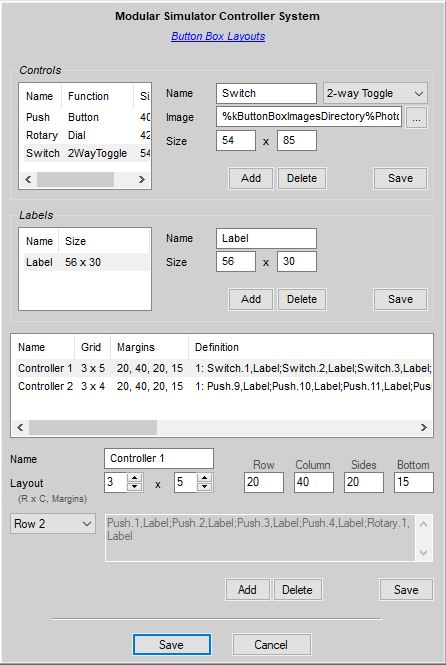
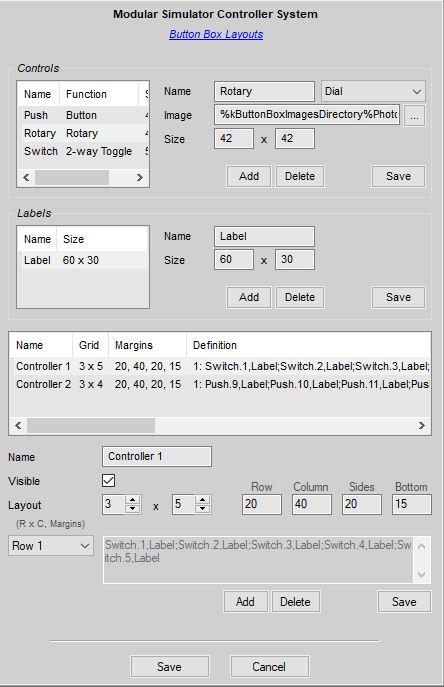
Documentation Update

diff --git a/Docs/Installation & Configuration.md b/Docs/Installation & Configuration.md
@@ -257,7 +257,7 @@ Although you may call any globally defined function, you should use only the fol
 
 #### Trigger Detector Tool
 
-This little tool will help you identifying the button numbers of your hardware controller. If you push the "Trigger..." button, a flying tool tip will apear next to your mouse cursor, which provide some information about your connected controller devices and the buttons or other triggers, that are currently beeing pushed there. To disable the tool tip, press the "Trigger..." button again.
+This little tool will help you identifying the button numbers of your hardware controller. If you push the "Trigger..." button, a flying tool tip will apear next to your mouse cursor, which provide some information about your connected controller devices and the buttons or other triggers, that are currently beeing pushed there. To disable the tool tip, press the "Trigger..." button again or use the "ESC" key.
 
 ### Tab *Launchpad*
 
@@ -349,7 +349,7 @@ In the given configuration file, you first have to define the different *Control
 
 You may define different *Label* types, if you are using label fields of different sizes for your controls. The example above only introduces one label with a fixed size for all controls.
 
-In the last section, the layouts of one or more Button Boxes are described using these components. For each Button Box you have to define the layout grid with *.Layout*" descriptor. The grid argument ("R x C", where "R" define the number of rows and "C" the number of columns) is required, the other optional parts as in "Controller 2.Layout=3 x 4, 20, 60, 20, 15" are the *Row Margin*, *Column Margin*, *Sides Margin* and *Bottom Margin* with 20, 40, 20 and 15 as default. After defining the layout, you enumerate the controls of each row seperately. It is possible to leave positions in the grid blank, when not every corresponding position on your Button Box is occupied with a control, and it is also possible to create a control without a label field. The number of each control (as in "Push.17" must correspond with the number of the corresponding controller function defined on the [*Controller* tab](https://github.com/SeriousOldMan/Simulator-Controller/wiki/Installation-&-Configuration#tab-controller).
+In the last section, the layouts of one or more Button Boxes are described using these components. For each Button Box you have to define the layout grid with *.Layout*" descriptor. The grid argument ("R x C", where "R" define the number of rows and "C" the number of columns) is required, the other optional parts as in "Controller 2.Layout=3 x 4, 20, 60, 20, 15" are the *Row Margin*, *Column Margin*, *Sides Margin* and *Bottom Margin* with 20, 40, 20 and 15 as default. After defining the layout, you enumerate the controls of each row seperately. It is possible to leave positions in the grid blank, when not every corresponding position on your Button Box is occupied with a control, and it is also possible to create a control without a label field. The number of each control (as in "Push.17" must correspond with the number of the corresponding controller function defined on the [*Controller* tab](https://github.com/SeriousOldMan/Simulator-Controller/wiki/Installation-&-Configuration#tab-controller). Last, but not least: You can declare a Button Box to be invisible, so that its graphical representation will not be shown on the screen.
 
 After we now have an understanding of the Button Box layout definition format, let's have a look at the graphical editor, which handles this configuration file. As always, the file will be stored in the *Simulator Controller\Config* folder which resides in your user *Documents* folder.
 

diff --git a/Docs/Plugins & Modes.md b/Docs/Plugins & Modes.md
@@ -28,16 +28,21 @@ The "System" plugin creates the controller mode "Launch", which serves as a laun
 
 ![](https://github.com/SeriousOldMan/Simulator-Controller/blob/main/Docs/Images/Button%20Box%201.JPG)
 
+As an alternative, you can use the *launchApplications* parameter to specify the applications for the "Launch" mode:
+
+	launchApplications: ACC "Assetto Corsa Competizione" Button.1, FanaLab Fanalab Button.2, TS TeamSpeak Button.3
+
 ### Configuration
 
 The "System" plugin accepts one configuration argument in the [Plugins tab](https://github.com/SeriousOldMan/Simulator-Controller/wiki/Installation-&-Configuration#tab-plugins) of the configuration tool, which you almost always will provide:
 
 	modeSelector: *modeSelectorFunction1* *modeSelectorFunction2* ...;
+	launschApplications: *label* *application* *launchFunction1*, ...;
 	shutdown: *shutdownFunction*
 	
 The *modeSelector* parameter allows you to define controller functions that switch between modes on your Button Boxes. The *modeSelectorFunctionX* must be in the descriptor format, i.e. *"functionType*.*number*". You can use binary functions, such as 2-way toggle switches or dials, to switch forward and backward between modes, but a simple push button can also be used. Example: "modeSelector: 2WayToggle.1". If you have multiple Button Boxes, you may want to create a mode selector for each one, especially, if you have defined modes, whose actions are exclusive for one of those Button Boxes. Doing this, you can have mutiple modes active on the same time on your Button Boxes and you can switch between those modes on each of those Button Boxes separately. An example: You may bind all action for controlling the ["Motion" mode](https://github.com/SeriousOldMan/Simulator-Controller/wiki/Plugins-&-Modes#mode-motion) to one Button Box and all actions for the ["Pitstop" mode](https://github.com/SeriousOldMan/Simulator-Controller/wiki/Plugins-&-Modes#mode-pitstop-1) to a different Button Box. In this configuration, both modes can be active at the same time.
 
-With the *shutdown* parameter, a unary function can be supplied to shutdown the complete simulator system. This function will be available in the "Launch" mode.
+The parameter *launchApplications* allows you to specify a list of applications that you want to start and stop from your Button Box. *label* will be used as the display name and *application* must reference the application as defined in the [applications tab](https://github.com/SeriousOldMan/Simulator-Controller/wiki/Installation-&-Configuration#tab-applications). With the *shutdown* parameter, a unary function can be supplied to shutdown the complete simulator system. This function will be available in the "Launch" mode.
 
 ## Plugin *Tactile Feedback*
 

diff --git a/Docs/Updates.md b/Docs/Updates.md
@@ -47,7 +47,9 @@ Note: Some of you might want to have more control. No problem. All the files in 
 
 ## Release 3.5.0
 
-The biggest change in this release is the introduction of the all-new [Setup Wizard](*). In the course of implementing this very challenging tool, the labels for the visual representation of the Button Boxes were extensively revised. Therefore the [plugin label files](https://github.com/SeriousOldMan/Simulator-Controller/blob/main/Resources/Templates/Controller%20Plugin%20Labels.de) will be completely overwritten in this release. If you have edited your local files in the *Simulator Controller\Translations* folder in your *Documents* folder and introduced your own label identifiers, make backup copies before the update and then re-integrate your changes.
+The biggest change in this release is the introduction of the all-new [Setup Wizard](*). In the course of implementing this very challenging tool, the labels for the visual representation of the Button Boxes were extensively revised. Therefore the [plugin label files](https://github.com/SeriousOldMan/Simulator-Controller/blob/main/Resources/Templates/Controller%20Plugin%20Labels.de) will be completely overwritten in this release (the old files will be retained as backfiles in this case).
+
+Therefore: If you have edited your local files in the *Simulator Controller\Translations* folder in your *Documents* folder and introduced your own label identifiers, be sure to re-integrate your changes after running the update.
 
 ***
 

diff --git a/Docs/Releases.md b/Docs/Releases.md
@@ -5,7 +5,8 @@
   3. All new Setup Wizard, which greatly flattens the learning curve, while installing and configuring *Simulator Controller*. Please see the [documentation](*) for more information.
   4. Button Boxes can now be invisible to define and group controls, which are located on non-typical controllers like steering wheels.
   5. For the introduction of the new Setup Wizard, the localized Plugin Labels has been extensively reworked. Please see the [update notes](https://github.com/SeriousOldMan/Simulator-Controller/wiki/Update-Notes#release-350), if you have changed the default Plugin Labels and want to preserve your changes.
-  6. The Push-To-Talk function now emits a short sound, when the listen mode is activated.
+  6. The "System" plugin now supports a [parameter *launchApplications*](https://github.com/SeriousOldMan/Simulator-Controller/wiki/Plugins-&-Modes#configuration) to specify the applications to be used for the "Launch" mode.
+  7. The Push-To-Talk function now emits a short sound, when the listen mode is activated.
 
 ## 3.3.1-release 07/25/21
 
